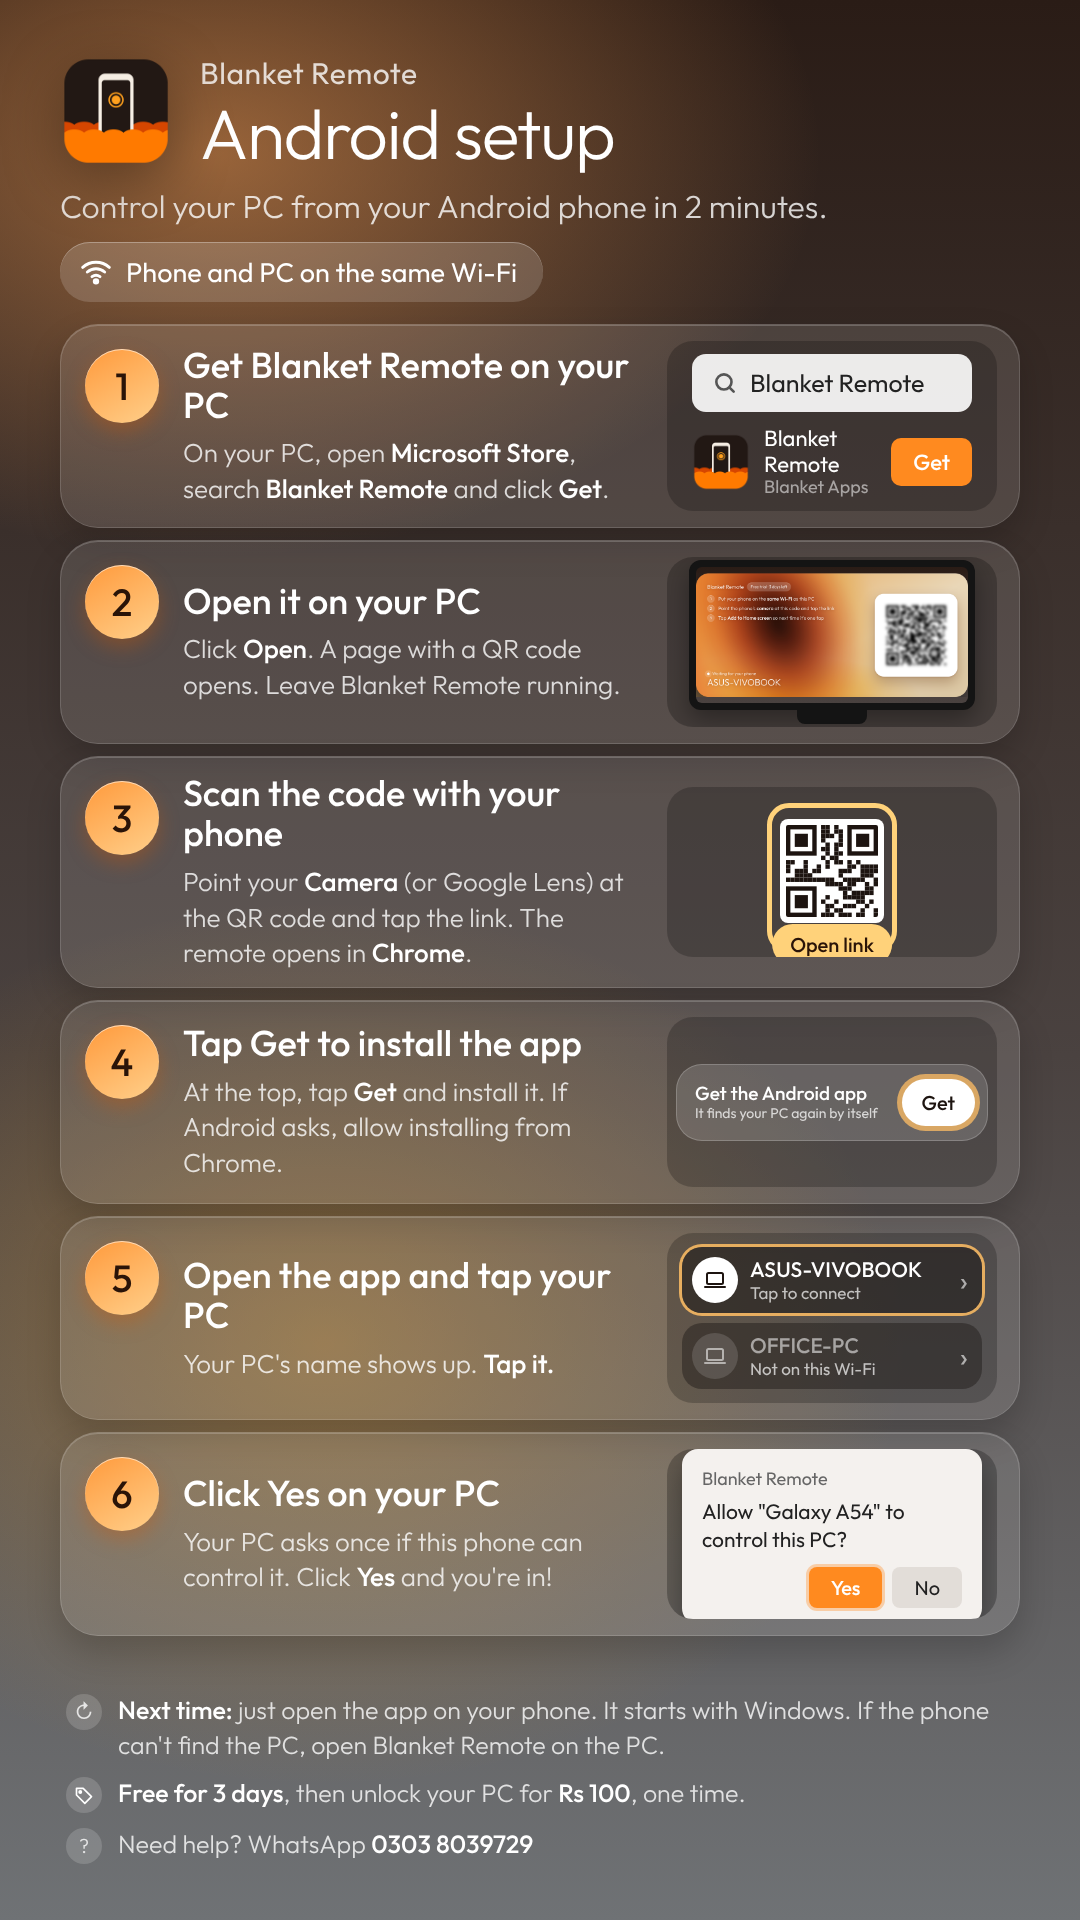
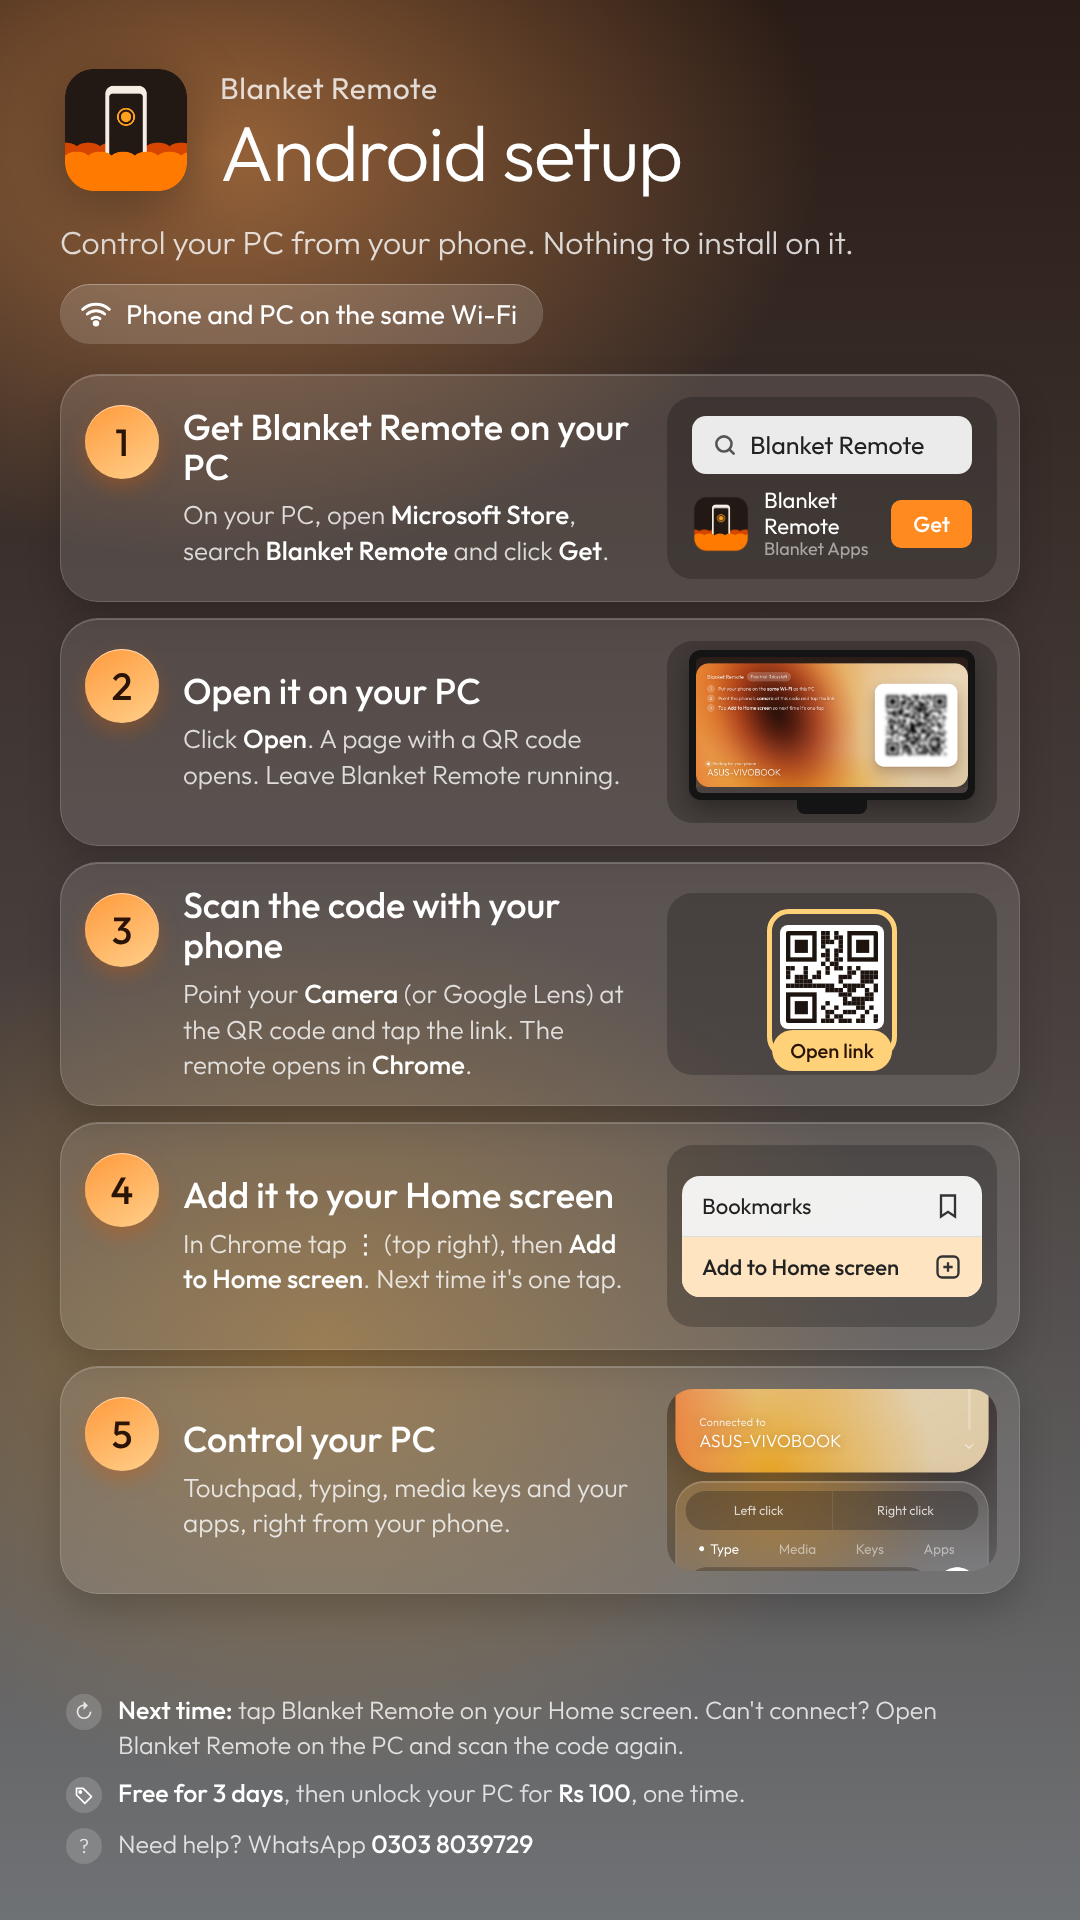
Android guide: scan the QR code and use it in Chrome (no app install)
Claude-Session: https://claude.ai/code/session_01V742Lz2F8aDjRZFtXQFDQW

diff --git a/guide/guide.html b/guide/guide.html
@@ -19,7 +19,7 @@ h1 { font-size: 78px; font-weight: 300; line-height: 1; letter-spacing: -.02em; 
         border-radius: 999px; font-size: 27px; background: rgba(255,255,255,.16); box-shadow: inset 0 1px 0 rgba(255,255,255,.3); }
 .wifi svg { width: 32px; height: 32px; }
 .steps { margin-top: 30px; display: flex; flex-direction: column; gap: 16px; }
-.step { display: grid; grid-template-columns: 74px 1fr auto; gap: 24px; align-items: center; padding: 22px 22px 22px 24px; min-height: 236px;
+.step { display: grid; grid-template-columns: 74px 1fr auto; gap: 24px; align-items: center; padding: 22px 22px 22px 24px; min-height: 226px;
         border-radius: 38px; background: rgba(255,255,255,.12); border: 1px solid rgba(255,255,255,.15);
         box-shadow: inset 0 1px 0 rgba(255,255,255,.2), 0 16px 34px rgba(0,0,0,.18); }
 .num { width: 74px; height: 74px; border-radius: 50%; display: grid; place-items: center; font-size: 38px; font-weight: 500; color: #2a1408;
@@ -113,12 +113,10 @@ const steps = {
     ["Open it on your PC", 'Click <b>Open</b>. A page with a QR code opens. Leave Blanket Remote running.', '<div class="vis dark">' + pcPad + '</div>'],
     ["Scan the code with your phone", 'Point your <b>Camera</b> (or Google Lens) at the QR code and tap the link. The remote opens in <b>Chrome</b>.',
      '<div class="vis dark"><div class="cam"><div class="frame"></div><img class="qr" src="shots/fakeqr.svg"><div class="chip">Open link</div></div></div>'],
-    ["Tap Get to install the app", 'At the top, tap <b>Get</b> and install it. If Android asks, allow installing from Chrome.',
-     '<div class="vis dark"><div class="appbar"><div><b>Get the Android app</b><small>It finds your PC again by itself</small></div><span>Get</span></div></div>'],
-    ["Open the app and tap your PC", 'Your PC\'s name shows up. <b>Tap it.</b>',
-     '<div class="vis dark"><div class="rows"><div class="row on"><i>' + laptopSvg + '</i><div><b>ASUS-VIVOBOOK</b><small>Tap to connect</small></div><span>›</span></div><div class="row"><i>' + laptopSvg + '</i><div><b>OFFICE-PC</b><small>Not on this Wi-Fi</small></div><span>›</span></div></div></div>'],
-    ["Click Yes on your PC", 'Your PC asks once if this phone can control it. Click <b>Yes</b> and you\'re in!',
-     '<div class="vis dark"><div class="dialog"><div class="h">Blanket Remote</div><div class="q">Allow "Galaxy A54" to control this PC?</div><div class="btns"><span class="y">Yes</span><span>No</span></div></div></div>'],
+    ["Add it to your Home screen", 'In Chrome tap <b>⋮</b> (top right), then <b>Add to Home screen</b>. Next time it\'s one tap.',
+     '<div class="vis dark"><div class="share"><div>Bookmarks <svg viewBox="0 0 24 24" fill="none" stroke-width="2"><path d="M6 3h12v18l-6-4-6 4z"/></svg></div><div class="hl">Add to Home screen <svg viewBox="0 0 24 24" fill="none" stroke-width="2"><rect x="3" y="3" width="18" height="18" rx="4"/><path d="M12 8v8M8 12h8"/></svg></div></div></div>'],
+    ["Control your PC", 'Touchpad, typing, media keys and your apps, right from your phone.',
+     '<div class="vis"><img class="shot" src="shots/remote-mid.png"></div>'],
   ],
   iphone: [
     ["Get Blanket Remote on your PC", 'On your PC, open <b>Microsoft Store</b>, search <b>Blanket Remote</b> and click <b>Get</b>.', '<div class="vis dark">' + store + '</div>'],
@@ -131,12 +129,11 @@ const steps = {
      '<div class="vis"><img class="shot" src="shots/remote-mid.png"></div>'],
   ],
 };
-if (v !== "iphone") document.body.classList.add("six");
 const title = v === "iphone" ? "iPhone setup" : "Android setup";
-const lead = v === "iphone" ? "Control your PC from your iPhone in 2 minutes. No app to install on the phone." : "Control your PC from your Android phone in 2 minutes.";
+const lead = "Control your PC from your phone. Nothing to install on it.";
 const restartTip = v === "iphone"
-  ? '<b>Next time:</b> just tap Blanket Remote on your Home Screen. It starts with Windows. If the phone can\'t find the PC, open Blanket Remote on the PC.'
-  : '<b>Next time:</b> just open the app on your phone. It starts with Windows. If the phone can\'t find the PC, open Blanket Remote on the PC.';
+  ? '<b>Next time:</b> tap Blanket Remote on your Home Screen. Can\'t connect? Open Blanket Remote on the PC and scan the code again.'
+  : '<b>Next time:</b> tap Blanket Remote on your Home screen. Can\'t connect? Open Blanket Remote on the PC and scan the code again.';
 document.getElementById("root").innerHTML =
   '<header><img src="' + icon + '"><div><div class="brand">Blanket Remote</div><h1>' + title + '</h1></div></header>'
   + '<p class="lead">' + lead + '</p>'
